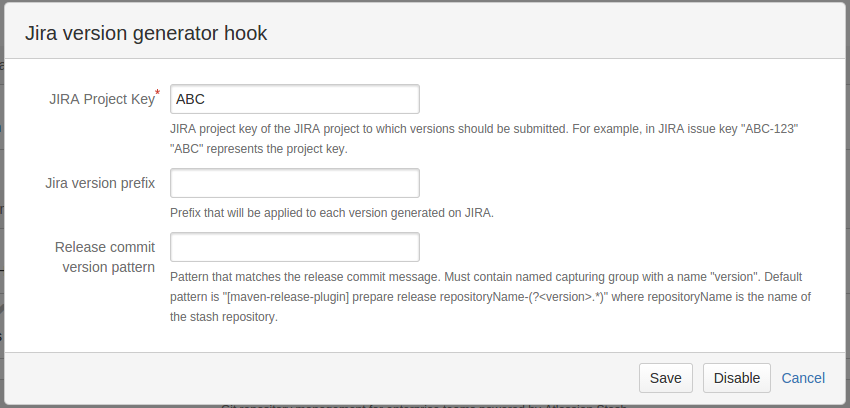
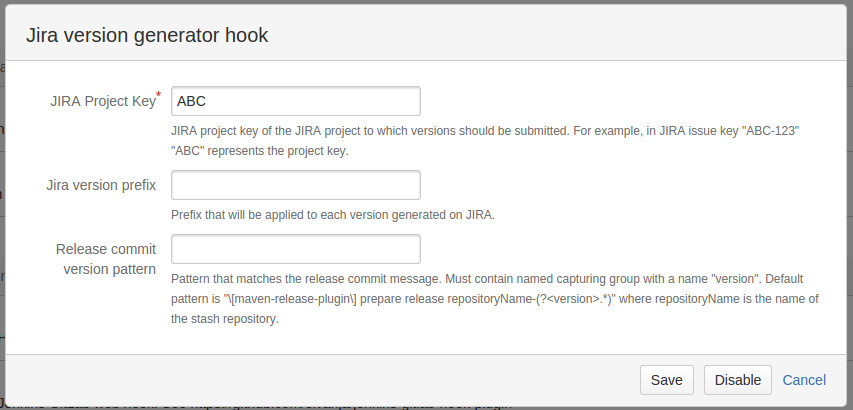
fixed release commit version pattern screenshot and default release commit version pattern in README.md

diff --git a/README.md b/README.md
@@ -80,7 +80,7 @@ the plugin generates the version 1.0.0 for the project and tags MTP-1, MTP-2 and
 
 ### <a name="ReleaseCommitVersionPattern"></a> Release commit version pattern:
 
-Optional configuration setting, default value is `[maven-release-plugin] prepare release repositoryName-(?<version>.*)`.
+Optional configuration setting, default value is `\[maven-release-plugin\] prepare release repositoryName-(?<version>.*)`.
 
 Used to extract release message from a commit. Must contain named capturing group with name "version".
 Default pattern matches the maven release plugin release commit message with the repository name as artifactId.
